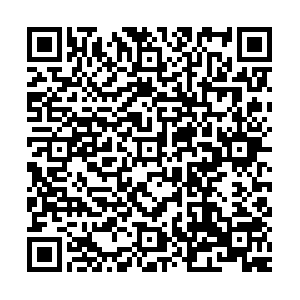
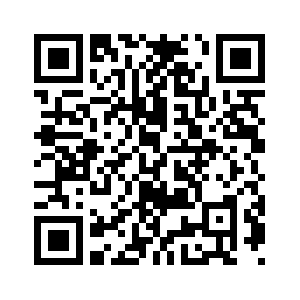
qr actualizados

diff --git a/src/main/resources/templates/naturalArea/get.html b/src/main/resources/templates/naturalArea/get.html
@@ -90,6 +90,9 @@
             <a th:href="@{/comment/add/{naturalArea}(naturalArea=${naturalArea.name})}">
                 <button type="button" class="btn btn-success okey">Añadir valoración</button> </a>
         </div>
+        <div th:unless="${#strings.equals(typeUser, 'registered')}">
+            <p><b>¡Inicie sesión para poder hacer comentarios!</b></p>
+        </div>
     </section>
 
     <!-- SECCION DE SERVICIOS FIJOS DEL AREA NATURAL -->

diff --git a/src/main/java/es/uji/ei102720mgph/SANA/controller/AuxiliarController.java b/src/main/java/es/uji/ei102720mgph/SANA/controller/AuxiliarController.java
@@ -5,6 +5,7 @@ import es.uji.ei102720mgph.SANA.enums.TypeOfUser;
 import es.uji.ei102720mgph.SANA.model.*;
 import es.uji.ei102720mgph.SANA.model.Address;
 import org.springframework.beans.factory.annotation.Autowired;
+import org.springframework.beans.factory.annotation.Value;
 import org.springframework.stereotype.Controller;
 import org.springframework.ui.Model;
 import org.springframework.validation.BindingResult;
@@ -19,6 +20,10 @@ import javax.mail.*;
 import javax.mail.internet.InternetAddress;
 import javax.mail.internet.MimeMessage;
 import javax.servlet.http.HttpSession;
+import java.io.File;
+import java.nio.file.Files;
+import java.nio.file.Path;
+import java.nio.file.Paths;
 import java.time.LocalDate;
 import java.util.Formatter;
 import java.util.List;
@@ -45,12 +50,15 @@ class UserValidator implements Validator {
 @Controller
 @RequestMapping("/")
 public class AuxiliarController {
+    @Value("${upload.file.directory}")
+    private String uploadDirectory;
 
     private SanaUserDao sanaUserDao;
     private RegisteredCitizenDao registeredCitizenDao;
     private MunicipalManagerDao municipalManagerDao;
     private ControlStaffDao controlStaffDao;
     private ReservaDatosDao reservaDatosDao;
+    private ReservationDao reservationDao;
     private AddressDao addressDao;
 
     @Autowired
@@ -71,6 +79,11 @@ public class AuxiliarController {
     @Autowired
     public void setSanaUsertDao(SanaUserDao sanaUserDao){
         this.sanaUserDao = sanaUserDao;
+    }
+
+    @Autowired
+    public void setReservationDao(ReservationDao reservationDao){
+        this.reservationDao = reservationDao;
     }
 
     @Autowired
@@ -117,6 +130,7 @@ public class AuxiliarController {
         return "inicioRegistrado/areasNaturales";
     }
 
+    // TODO este método igual debería ir en el controller de reservation
     @RequestMapping("inicio/registrado/reservas")
     public String redirigirRegistradoReservas(Model model, HttpSession session) {
         if (session.getAttribute("registeredCitizen") == null) {
@@ -138,10 +152,24 @@ public class AuxiliarController {
             session.setAttribute("nextUrl", "/inicio/registrado/reservas");
             return "redirect:/inicio/login";
         }
-
         String mot = motivo.getMot();
         mot = mot.substring(0, mot.length()-1);
         reservaDatosDao.cancelaReservaPorCiudadano(id, mot);
+
+        Reservation reservation = reservationDao.getReservation(Integer.parseInt(id));
+        // Actualizar QR con la cancelacion
+        Formatter fmt = new Formatter();
+        QRCode qr = new QRCode();
+        File f = new File("qr" + fmt.format("%07d", id) + ".png");
+        String text = "Reserva cancelada por " + reservation.getCitizenEmail() + " de fecha " + reservation.getReservationDate() + ".";
+        try {
+            qr.generateQR(f, text, 300, 300);
+            byte[] bytes = Files.readAllBytes(f.toPath());
+            Path path = Paths.get(uploadDirectory + "qrCodes/" + f.getName());
+            Files.write(path, bytes);
+        } catch (Exception e) {
+            e.printStackTrace();
+        }
 
         return "redirect:/inicio/registrado/reservas";
     }
@@ -236,8 +264,7 @@ public class AuxiliarController {
             registeredCitizen.setCitizenCode(registrationCitizen.getCitizenCode());
             registeredCitizenDao.addRegisteredCitizen(registeredCitizen);
 
-
-
+            // TODO ENVIAR MAIL!!!!
 
             return "redirect:/inicio/login";
         }else {

diff --git a/src/main/java/es/uji/ei102720mgph/SANA/controller/ReservationController.java b/src/main/java/es/uji/ei102720mgph/SANA/controller/ReservationController.java
@@ -122,21 +122,18 @@ public class ReservationController {
         Zone zone = zoneDao.getZone(reservation.getZoneid());
 
         // todo OJO QUE CUANDO PODAMOS RESERVAR VARIAS ZONAS EL TEXTO CAMBIA (MIRAR ALGUNA LO QUE HE PEUSTO)
+        // Generar QR
         Formatter fmt = new Formatter();
         QRCode qr = new QRCode();
         File f = new File("qr" + fmt.format("%07d", numRes) + ".png");
         String text = "Reserva por " + reservation.getCitizenEmail() + " en " + naturalArea + ", de fecha " + reservation.getReservationDate()
-        + ", de " + timeSlot.getBeginningTime() + " a " + timeSlot.getEndTime() + ", en la zona " + zone.getZoneNumber() + zone.getLetter() +
-                " para " + reservation.getNumberOfPeople() + " personas.";
+        + ", de " + timeSlot.getBeginningTime() + " a " + timeSlot.getEndTime() + ", para " + reservation.getNumberOfPeople() + " personas.";
 
         try {
             qr.generateQR(f, text, 300, 300);
             byte[] bytes = Files.readAllBytes(f.toPath());
             Path path = Paths.get(uploadDirectory + "qrCodes/" + f.getName());
             Files.write(path, bytes);
-            System.out.println("QRCode Generated: " + f.getAbsolutePath());
-            String qrString = qr.decoder(f);
-            System.out.println("Text QRCode: " + qrString);
         } catch (Exception e) {
             e.printStackTrace();
         }
@@ -195,6 +192,9 @@ public class ReservationController {
             return "reservation/update";
         reservation.setCancellationDate(LocalDate.now());
         reservationDao.updateReservation(reservation);
+
+        // GENERAR DE NUEVO QR (mirar lo que he puesto en un QR de cancelado por gestor municipal
+
         return "redirect:/reservation/listManagers/";
     }
 

diff --git a/src/main/java/es/uji/ei102720mgph/SANA/controller/QRCode.java b/src/main/java/es/uji/ei102720mgph/SANA/controller/QRCode.java
@@ -39,9 +39,7 @@ public class QRCode {
         }
 
         ImageIO.write(image, "png", file);
-
         return file;
-
     }
 
     public String decoder(File file) throws Exception {
